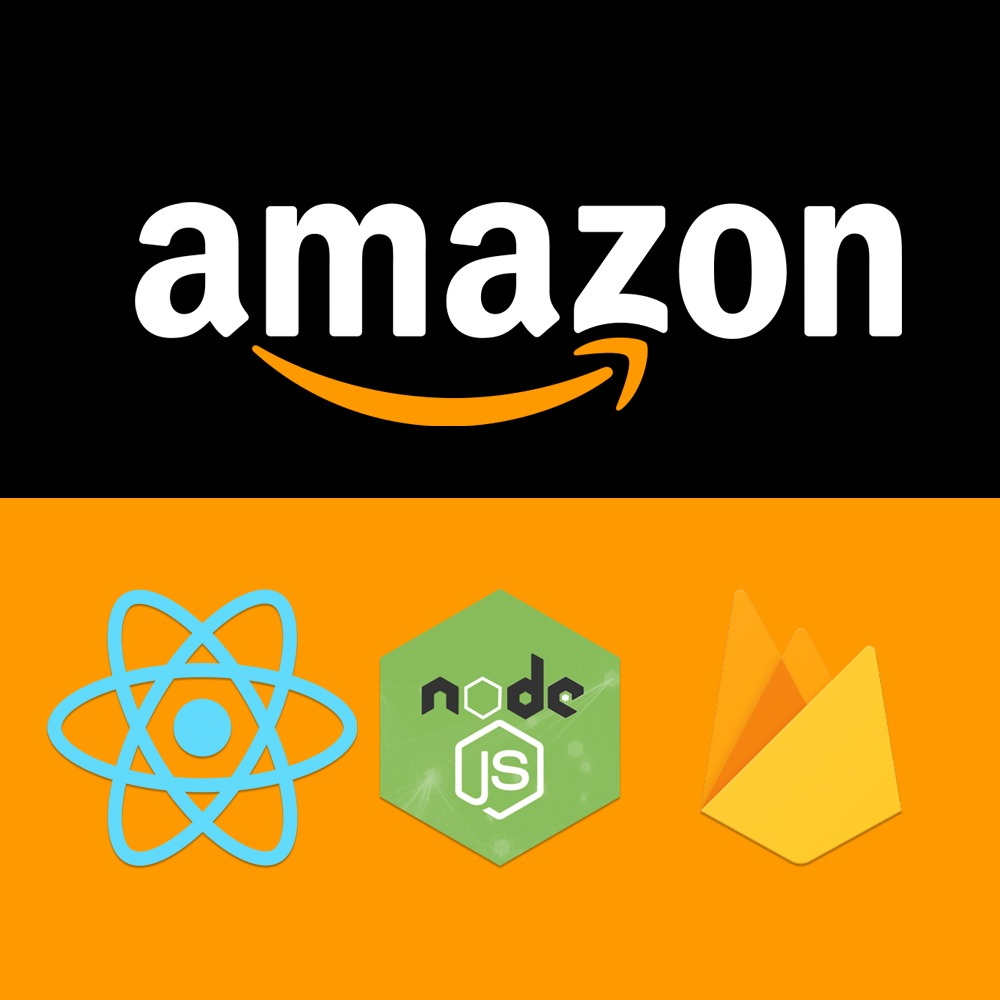
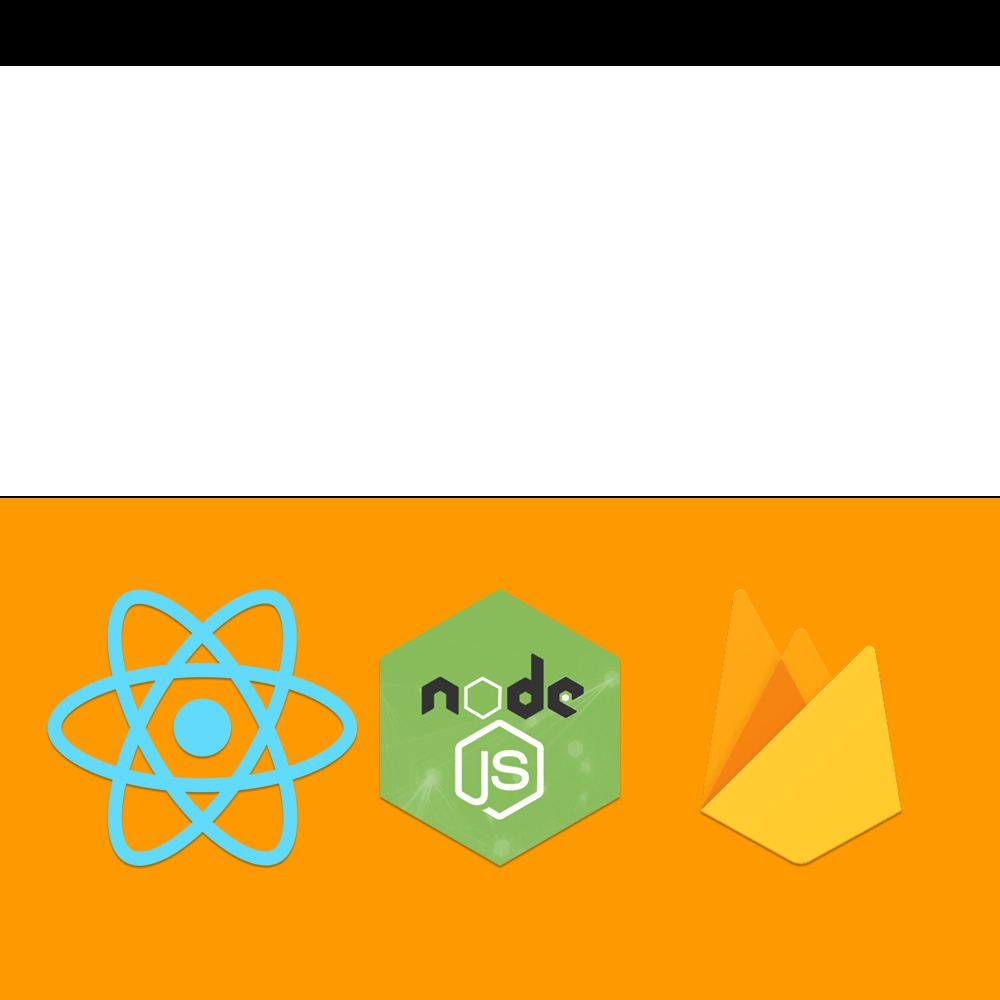
first commit

diff --git a/src/Components/Portfolio.jsx b/src/Components/Portfolio.jsx
@@ -1,9 +1,9 @@
 import React from 'react'
 import netflix from "../assets/portfolio/netflix.png";
-import amazon from "../assets/portfolio/amazon.png";
+import amazon from "../assets/portfolio/amazon1.png";
 import applereact from "../assets/portfolio/applereact.png";
-import app from "../assets/portfolio/app.jpg";
-import abe from "../assets/portfolio/abe.jpeg";
+// import app from "../assets/portfolio/app.jpg";
+// import abe from "../assets/portfolio/abe.jpeg";
 
 function Portfolio() {
 
@@ -16,20 +16,22 @@ function Portfolio() {
         {
             id:2,
             src:amazon,
+            href:"https://frontend-clone-8caa5.web.app/"
         },
         {
             id:3,
             src:applereact,
             href:"https://apple-react-clone-62818.web.app/"
         },
-        {
-            id:4,
-            src:app
-        },
-        {
-            id:5,
-            src:abe
-        },
+        // {
+        //     id:4,
+        //     src:app,
+            
+        // },
+        // {
+        //     id:5,
+        //     src:abe
+        // },
     ]
 
   return (
